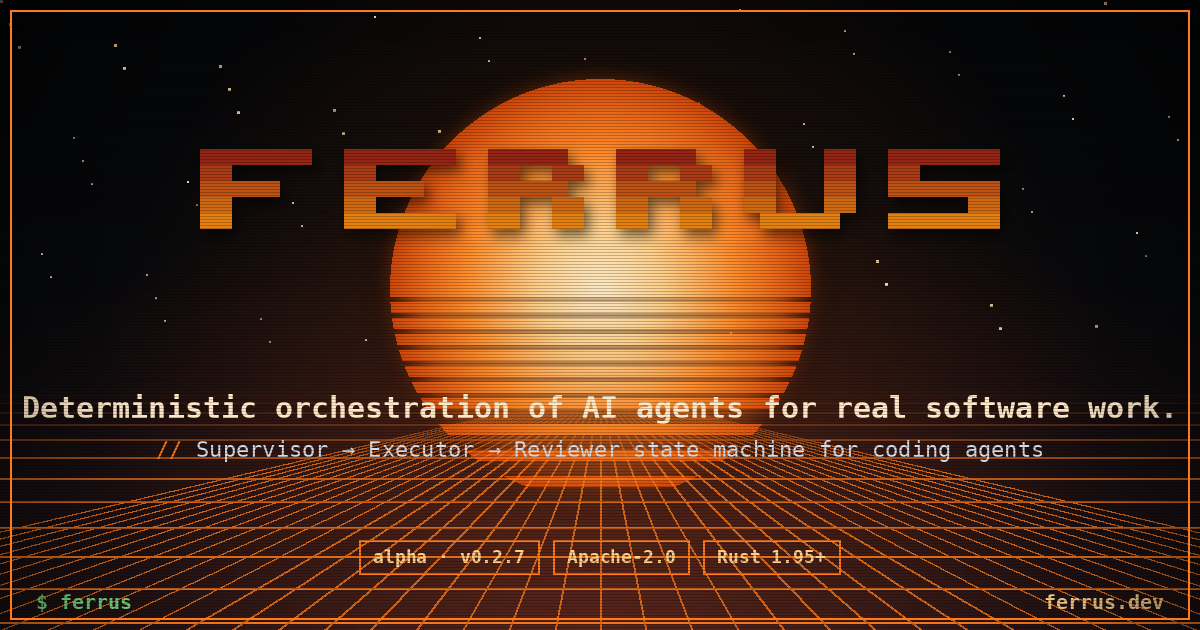
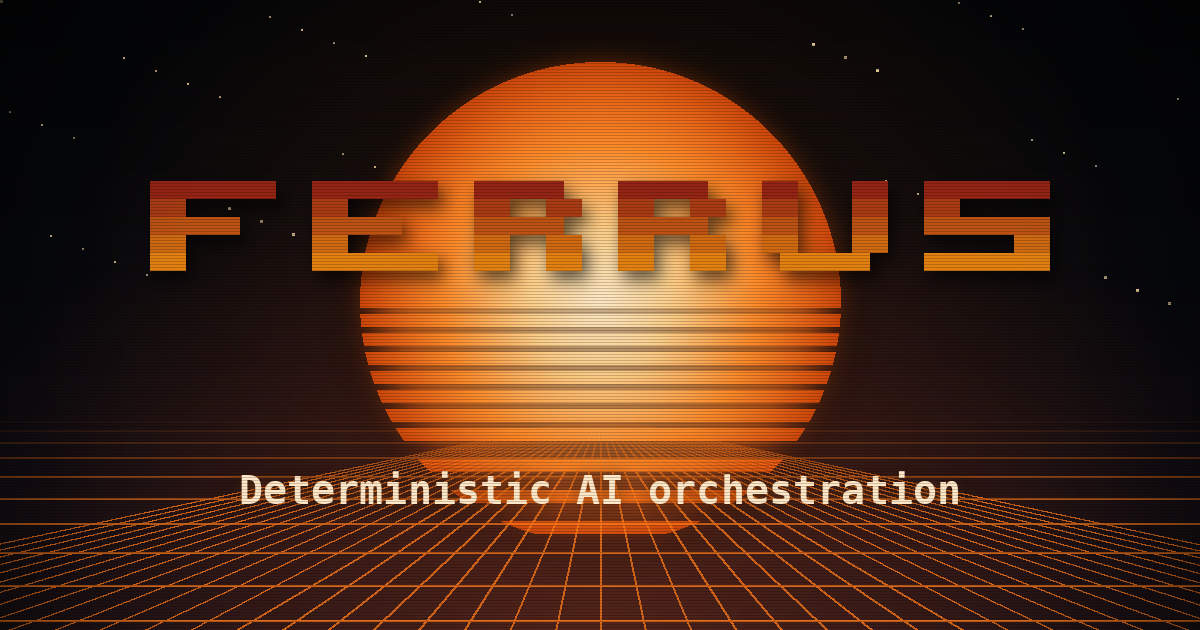
Simplify OG card and use tagline as og:description
Card is reduced to the hook: just the FERRUS banner over the synthwave
sun + grid and the line 'Deterministic AI orchestration'. Drops the
busy badges/url/sub-tagline that made it read like a screenshot.

Removes the Python generator from the repo (it was a one-off tool,
not part of the Docusaurus build).

Home page now passes siteConfig.tagline through as the Layout
description so og:description matches the site tagline rather than
a longer custom string.

diff --git a/src/pages/index.tsx b/src/pages/index.tsx
@@ -154,7 +154,7 @@ export default function Home(): ReactNode {
   return (
     <Layout
       title={siteConfig.title}
-      description="ferrus — deterministic orchestration of AI coding agents. A Supervisor → Executor → Reviewer state machine that turns coding agents into repeatable workers.">
+      description={siteConfig.tagline}>
       <Hero />
       <main>
         <Install />
